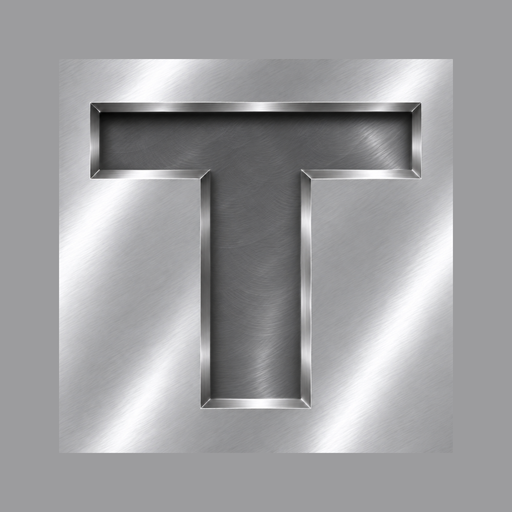
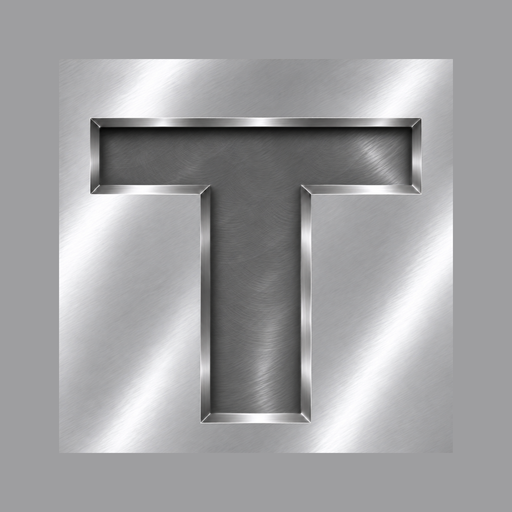
Νέο λογότυπο T
Claude-Session: https://claude.ai/code/session_01FykctA7DpWM633uHqDsqFv

Changed region(s): [[0.1562, 0.1875, 0.8438, 0.5312], [0.375, 0.5625, 0.625, 0.8438]]

diff --git a/test.html b/test.html
@@ -19,9 +19,9 @@
 <meta charset="UTF-8">
 <meta name="viewport" content="width=device-width, initial-scale=1.0, maximum-scale=1.0, viewport-fit=cover">
 <!-- Εικονίδιο / «Προσθήκη στην οθόνη Αφετηρίας» (χωρίς start_url: ανοίγει τη σελίδα από την οποία προστέθηκε) -->
-<link rel="manifest" href="manifest.webmanifest?v=5">
-<link rel="apple-touch-icon" href="icons/apple-touch-icon.png?v=5">
-<link rel="icon" type="image/png" href="icons/favicon-64.png?v=5">
+<link rel="manifest" href="manifest.webmanifest?v=6">
+<link rel="apple-touch-icon" href="icons/apple-touch-icon.png?v=6">
+<link rel="icon" type="image/png" href="icons/favicon-64.png?v=6">
 <meta name="apple-mobile-web-app-capable" content="yes">
 <meta name="mobile-web-app-capable" content="yes">
 <meta name="apple-mobile-web-app-title" content="TRANSFORMATION">
@@ -1491,7 +1491,7 @@ body.hand-mode :is(input[type=text], input[type=number], input:not([type]), text
 <div class="mobile-topbar hidden" id="mobile-topbar">
   <div style="display:flex;align-items:center;justify-content:space-between;width:100%;">
     <div class="brand">
-      <span class="brand-logo"><img class="brand-mark" src="icons/icon-192.png?v=5" alt="TRANSFORMATION"></span>
+      <span class="brand-logo"><img class="brand-mark" src="icons/icon-192.png?v=6" alt="TRANSFORMATION"></span>
       <div class="brand-text"><div class="t1">TRANSFORMATION</div></div>
     </div>
     <button id="mobile-logout" title="Αποσύνδεση" style="width:38px;height:38px;flex-shrink:0;border-radius:10px;border:1px solid rgba(239,45,53,.35);background:rgba(239,45,53,.12);color:#ffb3b3;display:flex;align-items:center;justify-content:center;">
@@ -1504,7 +1504,7 @@ body.hand-mode :is(input[type=text], input[type=number], input:not([type]), text
 <div id="app" class="hidden">
   <div class="sidebar">
     <div class="brand">
-      <span class="brand-logo"><img class="brand-mark" src="icons/icon-192.png?v=5" alt="TRANSFORMATION"></span>
+      <span class="brand-logo"><img class="brand-mark" src="icons/icon-192.png?v=6" alt="TRANSFORMATION"></span>
       <div class="brand-text">
         <div class="t1">TRANSFORMATION</div>
         <div class="t2">Πρόγραμμα Γυμναστικής</div>
@@ -4971,7 +4971,7 @@ const ICON = {
 function authShell(inner){
   return `<div class="auth-card">
     <div class="auth-logo">
-      <span class="brand-logo"><img class="brand-mark" src="icons/icon-192.png?v=5" alt="TRANSFORMATION"></span>
+      <span class="brand-logo"><img class="brand-mark" src="icons/icon-192.png?v=6" alt="TRANSFORMATION"></span>
       <div class="brand-text"><div class="t1" style="color:var(--ink);">TRANSFORMATION</div><div class="t2" style="color:var(--ink-soft);">Πρόγραμμα Γυμναστικής</div></div>
     </div>
     ${inner}
